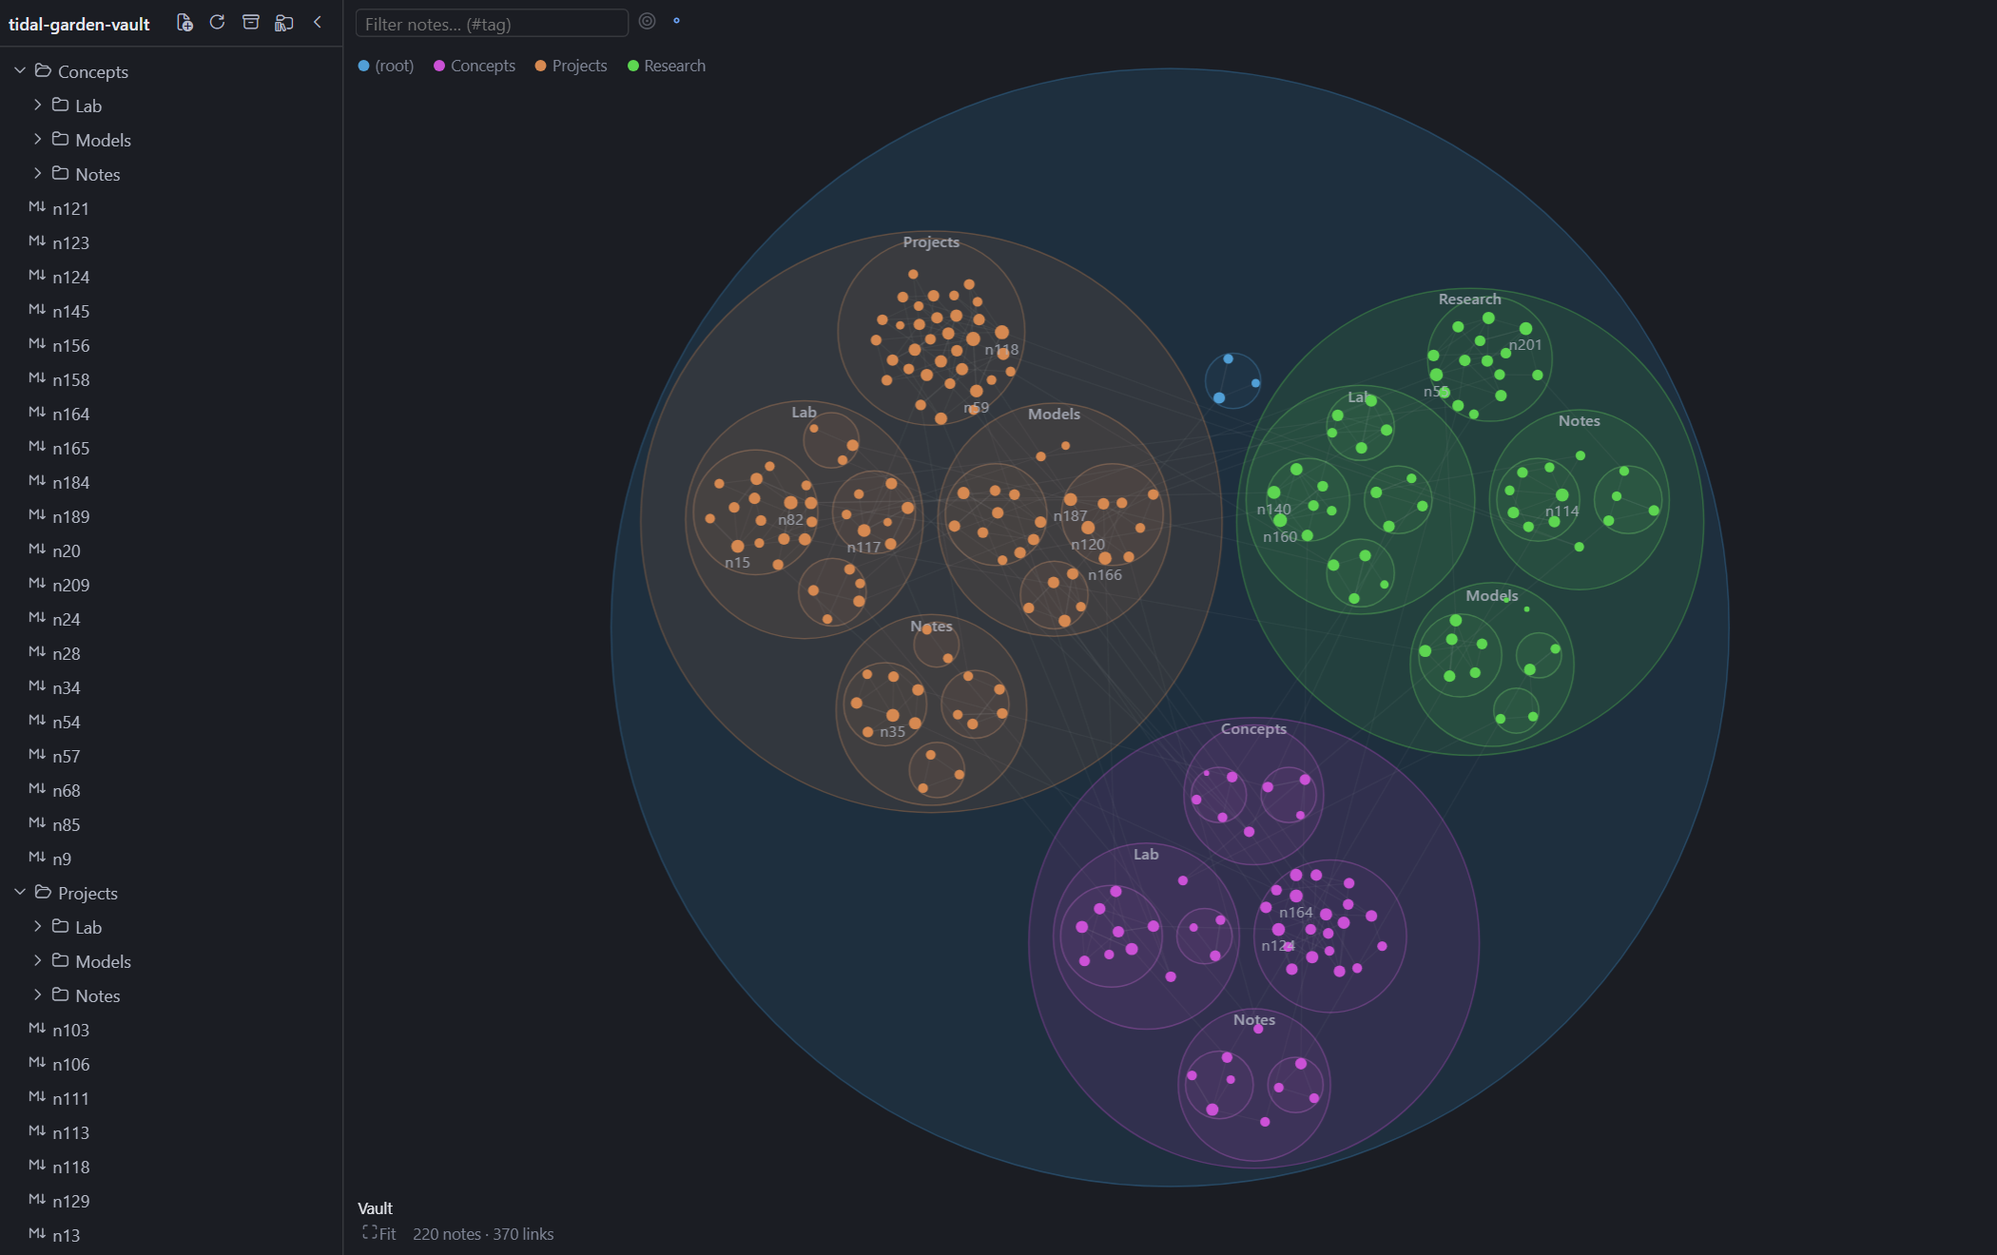
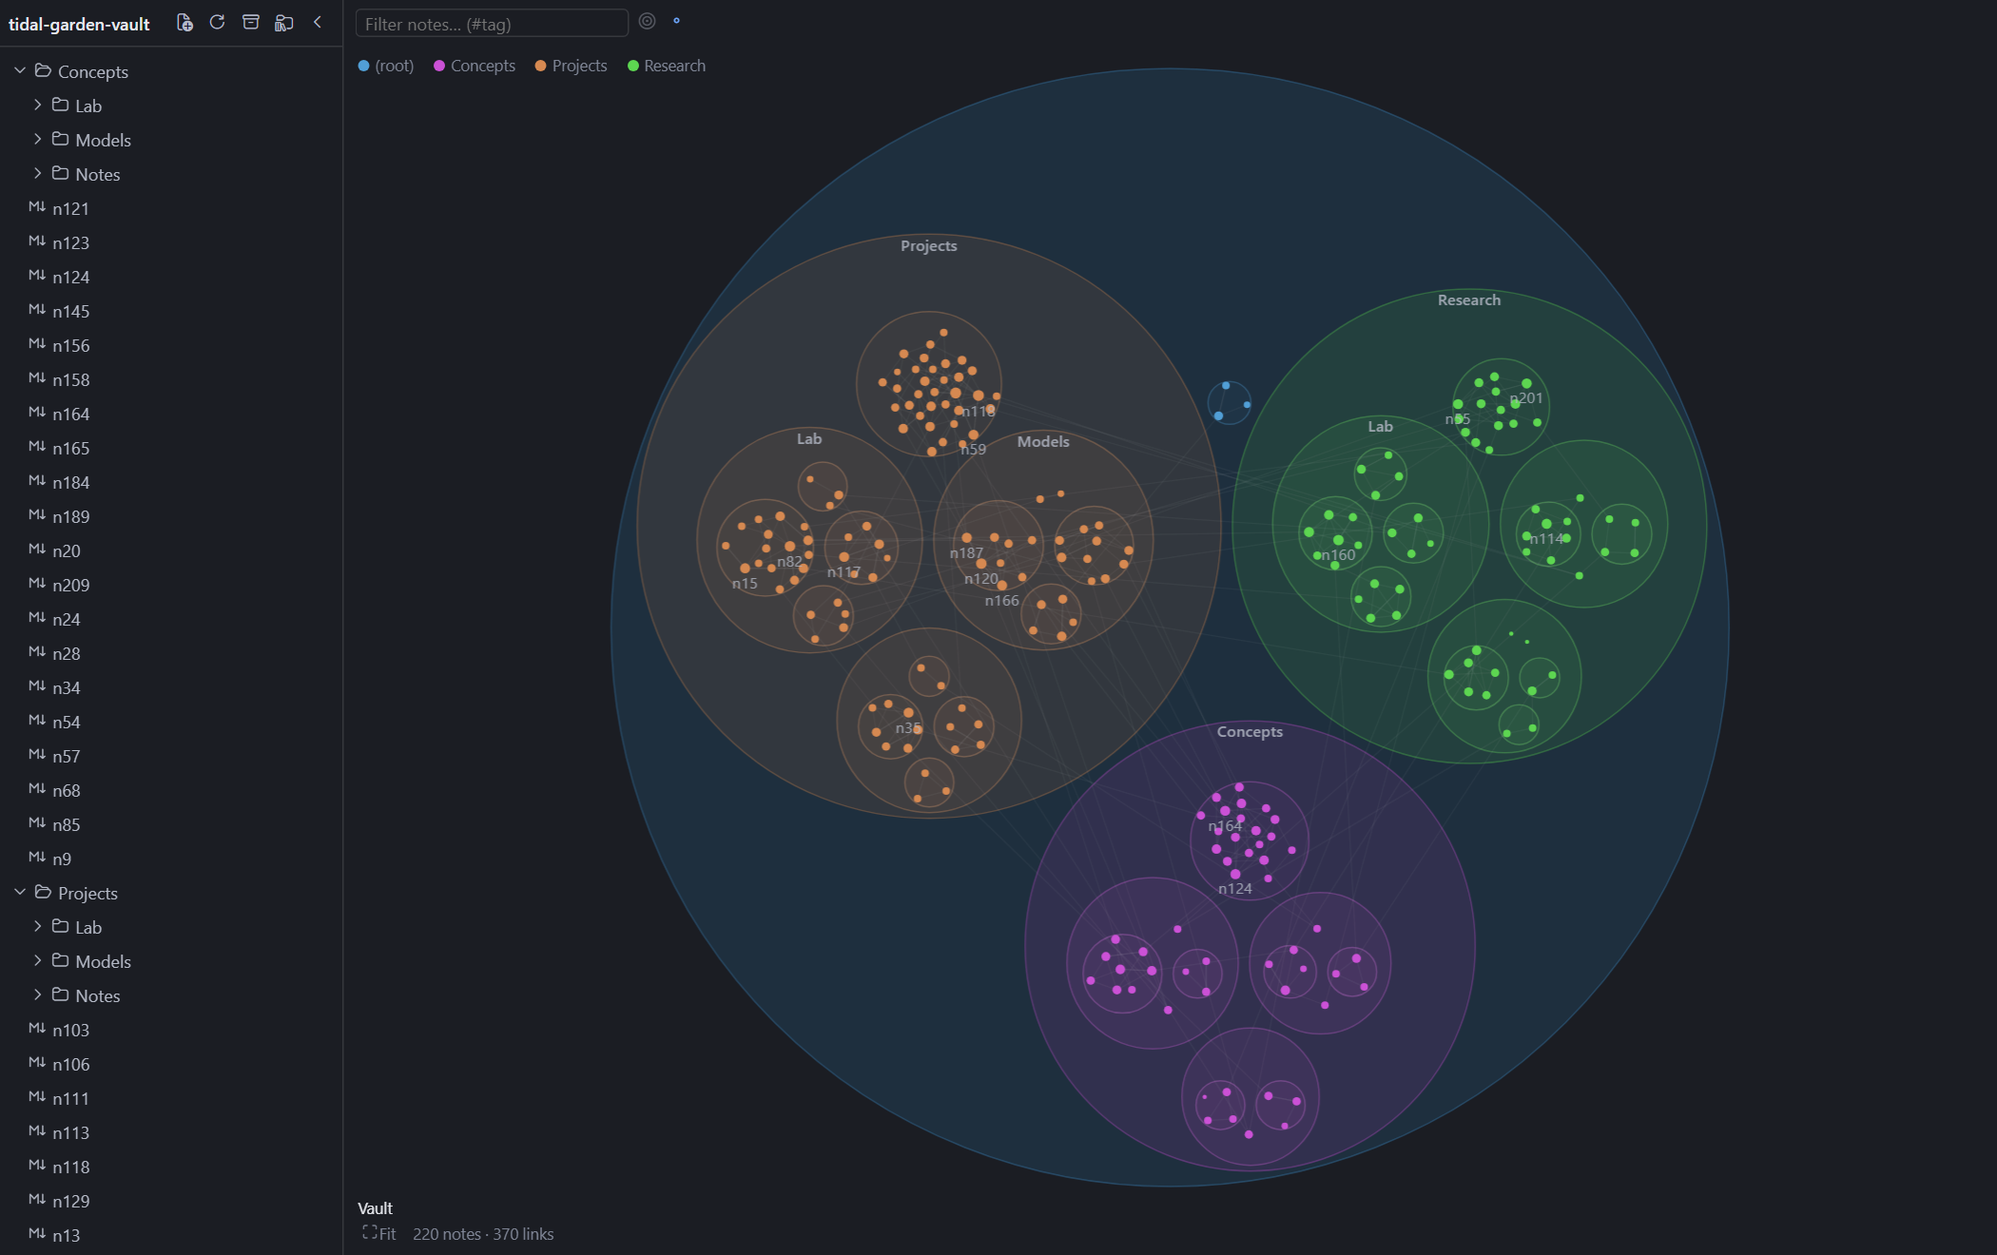
fix: reserve a label band in each region so labels never overlap notes or child regions; labels draw only while they fit

diff --git a/src/regions.ts b/src/regions.ts
@@ -26,8 +26,10 @@ export interface Compartment extends Disc {
 /** One drawn folder region. A chain of folders with no notes and a single child is one region. */
 export interface Region extends Disc {
   children: string[]
-  /** The notes' disc; coincides with the region itself when the folder has no subfolders. */
+  /** The notes' disc; coincides with `content` when the folder has no subfolders. */
   compartment: Compartment | null
+  /** Disc holding everything inside the region (children and notes); the crescent between it and the region is the label band. */
+  content: Disc
   depth: number
   /** The chain of folders this region stands for, outermost first; the last one is `id`. */
   dirs: string[]
@@ -60,6 +62,12 @@ const DENSITY = 0.4
 const BUCKET_RATIO = 1.5
 /** Gap kept between siblings (twice this) and between a child and its parent's edge. */
 const REGION_PAD = 8
+/**
+ * Label band: the region disc is its content disc grown by this fraction of the content radius, with the content
+ * pushed down to touch the bottom edge, leaving a crescent at the top (thickness twice this at the centre) that
+ * only the region's label may occupy. Tuned by eye.
+ */
+const LABEL_BAND = 0.14
 const BUCKET_ORIGIN = Math.PI * (radiusOf({ degree: 0 }) + COLLIDE_PAD) ** 2
 
 export const EMPTY_GEOMETRY: Geometry = {
@@ -107,6 +115,7 @@ export const geometrySignature = (radii: ReadonlyMap<string, number>): string =>
 interface Packed {
   children: { dx: number; dy: number; packed: Packed }[]
   compartment: { dx: number; dy: number; r: number } | null
+  content: { dx: number; dy: number; r: number }
   dirs: string[]
   r: number
 }
@@ -159,9 +168,19 @@ export function buildGeometry(radii: ReadonlyMap<string, number>): Geometry {
 
       // A folder with notes and nothing else is its compartment; a folder with one child and no notes
       // is that child (a chain).
-      return only!.packed
-        ? { ...only!.packed, dirs: [dir, ...only!.packed.dirs] }
-        : { children: [], compartment: { dx: 0, dy: 0, r: own! }, dirs: [dir], r: own! }
+      if (only!.packed) {
+        return { ...only!.packed, dirs: [dir, ...only!.packed.dirs] }
+      }
+
+      const band = dir === '' ? 0 : LABEL_BAND * own!
+
+      return {
+        children: [],
+        compartment: { dx: 0, dy: band, r: own! },
+        content: { dx: 0, dy: band, r: own! },
+        dirs: [dir],
+        r: own! + band
+      }
     }
 
     // Largest first so the big discs sit at the centre; the key makes the order total.
@@ -172,11 +191,19 @@ export function buildGeometry(radii: ReadonlyMap<string, number>): Geometry {
     packSiblings(circles)
 
     const enclosure = packEnclose(circles)
-    const result: Packed = { children: [], compartment: null, dirs: [dir], r: enclosure.r }
+    const band = dir === '' ? 0 : LABEL_BAND * enclosure.r
+
+    const result: Packed = {
+      children: [],
+      compartment: null,
+      content: { dx: 0, dy: band, r: enclosure.r },
+      dirs: [dir],
+      r: enclosure.r + band
+    }
 
     items.forEach((item, index) => {
       const dx = circles[index]!.x - enclosure.x
-      const dy = circles[index]!.y - enclosure.y
+      const dy = circles[index]!.y - enclosure.y + band
 
       if (item.packed) {
         result.children.push({ dx, dy, packed: item.packed })
@@ -199,6 +226,7 @@ export function buildGeometry(radii: ReadonlyMap<string, number>): Geometry {
     const region: Region = {
       children: [],
       compartment: null,
+      content: { r: packed.content.r, x: x + packed.content.dx, y: y + packed.content.dy },
       depth,
       dirs: packed.dirs,
       id,

diff --git a/desktop/plugin.js b/desktop/plugin.js
@@ -3097,6 +3097,7 @@ var COLLIDE_PAD = 4;
 var DENSITY = 0.4;
 var BUCKET_RATIO = 1.5;
 var REGION_PAD = 8;
+var LABEL_BAND = 0.14;
 var BUCKET_ORIGIN = Math.PI * (radiusOf({ degree: 0 }) + COLLIDE_PAD) ** 2;
 var EMPTY_GEOMETRY = {
   byDir: /* @__PURE__ */ new Map(),
@@ -3156,16 +3157,33 @@ function buildGeometry(radii) {
     ];
     if (items.length === 1) {
       const [only] = items;
-      return only.packed ? { ...only.packed, dirs: [dir, ...only.packed.dirs] } : { children: [], compartment: { dx: 0, dy: 0, r: own }, dirs: [dir], r: own };
+      if (only.packed) {
+        return { ...only.packed, dirs: [dir, ...only.packed.dirs] };
+      }
+      const band2 = dir === "" ? 0 : LABEL_BAND * own;
+      return {
+        children: [],
+        compartment: { dx: 0, dy: band2, r: own },
+        content: { dx: 0, dy: band2, r: own },
+        dirs: [dir],
+        r: own + band2
+      };
     }
     items.sort((a3, b) => b.r - a3.r || (a3.key < b.key ? -1 : a3.key > b.key ? 1 : 0));
     const circles = items.map((item) => ({ r: item.r + REGION_PAD, x: 0, y: 0 }));
     siblings_default(circles);
     const enclosure = enclose_default(circles);
-    const result = { children: [], compartment: null, dirs: [dir], r: enclosure.r };
+    const band = dir === "" ? 0 : LABEL_BAND * enclosure.r;
+    const result = {
+      children: [],
+      compartment: null,
+      content: { dx: 0, dy: band, r: enclosure.r },
+      dirs: [dir],
+      r: enclosure.r + band
+    };
     items.forEach((item, index2) => {
       const dx = circles[index2].x - enclosure.x;
-      const dy = circles[index2].y - enclosure.y;
+      const dy = circles[index2].y - enclosure.y + band;
       if (item.packed) {
         result.children.push({ dx, dy, packed: item.packed });
       } else {
@@ -3183,6 +3201,7 @@ function buildGeometry(radii) {
     const region = {
       children: [],
       compartment: null,
+      content: { r: packed.content.r, x: x3 + packed.content.dx, y: y3 + packed.content.dy },
       depth,
       dirs: packed.dirs,
       id,
@@ -3351,6 +3370,7 @@ var LABEL_MIN_PX = 40;
 var CURRENT_FRACTION = 0.25;
 var FIT_CAP = 1.8;
 var hsl = (hue, lightness) => `hsl(${hue} 62% ${lightness}%)`;
+var rectClearOf = (box, disc, margin) => Math.hypot(Math.max(box[0], Math.min(disc.x, box[2])) - disc.x, Math.max(box[1], Math.min(disc.y, box[3])) - disc.y) >= disc.r + margin;
 function GraphView(props) {
   const { cluster, graph, hiddenFolders, labels, legendFolders, onOpen, onToggleFolder, selected } = props;
   const nested = cluster === "nested";
@@ -3467,13 +3487,13 @@ function GraphView(props) {
         const half = width / 2 + 3 / k;
         const room = region.r > half ? region.r - Math.sqrt(region.r * region.r - half * half) : region.r;
         const dy = Math.max(3 / k, room);
-        if (room < region.r || forced) {
-          const box = [
-            region.x - width / 2,
-            region.y - region.r + dy,
-            region.x + width / 2,
-            region.y - region.r + dy + fontPx * 1.15
-          ];
+        const box = [
+          region.x - width / 2,
+          region.y - region.r + dy,
+          region.x + width / 2,
+          region.y - region.r + dy + fontPx * 1.15
+        ];
+        if (forced || room < region.r && rectClearOf(box, region.content, 2 / k)) {
           if (forced || !labelPlaced.some((p) => box[0] < p[2] && box[2] > p[0] && box[1] < p[3] && box[3] > p[1])) {
             labelPlaced.push(box);
             labelBoxesRef.current.push({ box: [box[0] - 2 / k, box[1] - 2 / k, box[2] + 2 / k, box[3] + 2 / k], id: region.id });

diff --git a/src/graph-view.tsx b/src/graph-view.tsx
@@ -47,6 +47,10 @@ const FIT_CAP = 1.8
 
 const hsl = (hue: number, lightness: number): string => `hsl(${hue} 62% ${lightness}%)`
 
+/** Whether the box lies wholly outside the disc grown by `margin`. */
+const rectClearOf = (box: readonly [number, number, number, number], disc: { r: number; x: number; y: number }, margin: number): boolean =>
+  Math.hypot(Math.max(box[0], Math.min(disc.x, box[2])) - disc.x, Math.max(box[1], Math.min(disc.y, box[3])) - disc.y) >= disc.r + margin
+
 export interface GraphViewProps {
   cluster: ClusterMode
   /** The whole vault's graph. Nested region geometry comes from it, so filters never repack the map. Defaults to `graph`. */
@@ -245,14 +249,16 @@ export function GraphView(props: GraphViewProps) {
         const room = region.r > half ? region.r - Math.sqrt(region.r * region.r - half * half) : region.r
         const dy = Math.max(3 / k, room)
 
-        if (room < region.r || forced) {
-          const box: [number, number, number, number] = [
-            region.x - width / 2,
-            region.y - region.r + dy,
-            region.x + width / 2,
-            region.y - region.r + dy + fontPx * 1.15
-          ]
+        const box: [number, number, number, number] = [
+          region.x - width / 2,
+          region.y - region.r + dy,
+          region.x + width / 2,
+          region.y - region.r + dy + fontPx * 1.15
+        ]
 
+        // The label belongs in the crescent above the content disc, where no note or child region can be.
+        // It is drawn unforced only while it fits there at this zoom, so it never sits on a note.
+        if (forced || (room < region.r && rectClearOf(box, region.content, 2 / k))) {
           if (forced || !labelPlaced.some(p => box[0] < p[2] && box[2] > p[0] && box[1] < p[3] && box[3] > p[1])) {
             labelPlaced.push(box)
             labelBoxesRef.current.push({ box: [box[0] - 2 / k, box[1] - 2 / k, box[2] + 2 / k, box[3] + 2 / k], id: region.id })

diff --git a/src/graph-view.test.tsx b/src/graph-view.test.tsx
@@ -44,14 +44,27 @@ beforeEach(() => {
       }) as DOMRect
   )
   HTMLElement.prototype.setPointerCapture = () => undefined
+  // Text is measured in the transformed (world) space at the font size the view set, as a real canvas does.
+  let fontPx = 11
+
   vi.spyOn(HTMLCanvasElement.prototype, 'getContext').mockReturnValue(
     new Proxy(
       {},
       {
         get: (_target, name: string) =>
-          name === 'measureText' ? () => ({ width: 40 }) : (...args: unknown[]) => void calls.push([name, args]),
+          name === 'measureText'
+            ? (text: string) => ({ width: fontPx * 0.6 * text.length })
+            : (...args: unknown[]) => void calls.push([name, args]),
         // Property writes are recorded too, so a region disc (arc, then style writes, then fill) differs from a note disc (arc, fill).
-        set: (_target, name: string, value: unknown) => (calls.push(['set', [name, value]]), true)
+        set: (_target, name: string, value: unknown) => {
+          if (name === 'font') {
+            fontPx = Number.parseFloat(/(\d+(?:\.\d+)?(?:e-?\d+)?)px/.exec(String(value))?.[1] ?? '11')
+          }
+
+          calls.push(['set', [name, value]])
+
+          return true
+        }
       }
     ) as unknown as CanvasRenderingContext2D
   )
@@ -434,8 +447,8 @@ describe('GraphView nested folder regions', () => {
       expect(view.x).toBeCloseTo(400, 3)
       expect(view.y).toBeCloseTo(300, 3)
       expect(view.r).toBeCloseTo(252, 3)
-      // Deeper than the legacy 1.8 Fit cap and above the legacy zoom ceiling of 6: the shared limits allow it.
-      expect(view.k).toBeGreaterThan(6)
+      // Far past the 1.8 cap of the global Fit action (the ceiling's widening past 6 is covered in camera.test.ts).
+      expect(view.k).toBeGreaterThan(5)
     })
 
     it('shows the path to the camera, and a step of it (or Escape) frames the ancestor', async () => {

diff --git a/src/regions.test.ts b/src/regions.test.ts
@@ -14,8 +14,19 @@ const gap = (a: { r: number; x: number; y: number }, b: { r: number; x: number; 
 function expectSound(geometry: Geometry) {
   for (const region of geometry.regions.values()) {
     const kids = region.children.map(id => geometry.regions.get(id)!)
+    const inContent = (d: { r: number; x: number; y: number }) =>
+      expect(Math.hypot(d.x - region.content.x, d.y - region.content.y) + d.r).toBeLessThanOrEqual(region.content.r + EPS)
+
+    // The label band: the content sits inside the region and touches its bottom edge, so the crescent above it is free.
+    expect(Math.hypot(region.content.x - region.x, region.content.y - region.y) + region.content.r).toBeLessThanOrEqual(region.r + EPS)
+
+    if (region.id !== '') {
+      expect(region.content.y - region.y + region.content.r).toBeCloseTo(region.r, 6)
+      expect(region.content.r).toBeLessThan(region.r)
+    }
 
     for (const kid of kids) {
+      inContent(kid)
       expect(Math.hypot(kid.x - region.x, kid.y - region.y) + kid.r).toBeLessThanOrEqual(region.r + EPS)
       expect(kid.parent).toBe(region.id)
     }
@@ -23,6 +34,7 @@ function expectSound(geometry: Geometry) {
     const own = region.compartment
 
     if (own) {
+      inContent(own)
       expect(Math.hypot(own.x - region.x, own.y - region.y) + own.r).toBeLessThanOrEqual(region.r + EPS)
     }
 

diff --git a/docs/nested-folder-regions.md b/docs/nested-folder-regions.md
@@ -151,10 +151,11 @@ Degradation, if measurement shows a cliff: draw regions only on settle while the
 Resolved by the implementation (the design above stands unless noted):
 
 - **Packing.** `d3-hierarchy` (`packSiblings` front-chain, `packEnclose`; ISC, 3.1.2) is the one added dependency: it is the established deterministic implementation of the algorithm named in the design. Children are sorted by radius then path before packing; each child is inflated by a fixed padding (8) for the packing, so siblings keep a gap of at least twice that and children keep that margin from the parent edge. A folder whose only child is its own compartment is that compartment; a folder with no notes and one child is that child (a chain), without extra padding.
+- **Label band.** A region disc is its content disc (the packing's enclosure, or the compartment for a leaf) grown by 14% of the content radius, with the content pushed down to touch the bottom edge. The crescent above it is reserved for the region's own label, so no note or child region can lie under a label. An unforced label is drawn only while its box (at screen-constant size) lies wholly outside the content disc at the current zoom, so a label that does not fit at a given zoom is hidden, not overdrawn; the hovered or framed region always labels. The root region has no band. The geometry tests assert that content lies inside the region, touches its bottom edge, and holds all children and the compartment.
 - **Geometry identity.** A compartment's radius is its direct notes' summed collision footprint (π(r+4)²) rounded up into geometric buckets (area ratio 1.5), over a packing density of 0.4, and at least the largest note's collision radius. `graph-view` rebuilds geometry only when the sorted (folder, radius) list changes; it is computed from the `fullGraph` prop, not the displayed graph.
 - **Camera.** Zoom limits (`zoomLimits`) are the legacy 0.1–6 widened by the whole-map fit (floor) and the smallest-compartment fit (ceiling), recomputed on every use so they follow the viewport; the 1.8 cap applies only to the global Fit and the whole-map crumb. Framing animates along the van Wijk–Nuij smooth zoom path (d3-zoom's `interpolateZoom`), which zooms out and back in over long jumps. The "current folder" is the framed region, and after a manual pan or zoom the deepest region containing the viewport centre whose on-screen radius is at least a quarter of the viewport's short side; Escape frames its parent. A viewport resize while still framed re-frames the same region. In nested mode the camera is kept through filters, the local graph and repacks, and refit only on first display or a mode switch.
 - **Path display.** One HTML breadcrumb (Vault / A / B / C). It shows the hovered region's ancestry (a hovered note shows its folder's) and otherwise the camera's; steps are buttons that frame that ancestor. Hover emphasis: the chain brightens, other regions recede.
-- **Semantic zoom.** A region is drawn and hit-testable once its on-screen radius is at least 14 px, and labelled at 40 px or more if the label fits the chord at the top of the disc; traversal skips subtrees that miss the viewport or fall below the band; a disc that covers the whole viewport is not drawn. No region is too small for every reachable zoom (the ceiling is the smallest compartment's fit), so presentation simplification is only chain merging.
+- **Semantic zoom.** A region is drawn and hit-testable once its on-screen radius is at least 14 px, and labelled at 40 px or more only while the label fits in the label band (below); traversal skips subtrees that miss the viewport or fall below the band; a disc that covers the whole viewport is not drawn. No region is too small for every reachable zoom (the ceiling is the smallest compartment's fit), so presentation simplification is only chain merging.
 - **Containment.** `containNode` clamps the position (and any `fx/fy` pin target) to the compartment less the note radius and removes outward normal velocity. It runs at build (seeding, restoring, remapping, radius change), in the `tick` handler and when pins change, and the drag target is clamped before it is written. Harnesses must call `step()` (`sim.tick()` dispatches no event); a test shows that bare `sim.tick()` violates containment on a cross-linked fixture.
 - **Persistence.** `VaultState.nestedPositions` stores `[folder, u, v]` (offset over radius) and survives repacks by mapping and then containing; a note whose stored folder differs from its current one is seeded fresh. `positions` gains `positionsMode`; positions with no recorded mode (saved before this change) are accepted by folder/none as they always were and never by nested, and positions of a different mode are replaced, not merged. Live positions carry over only within the same mode. Pins are a mode-independent set: a pin from another layout is re-applied at the note's seeded or restored position, then clamped like any `fx/fy`. Cold-start seeding inside a compartment is a deterministic sunflower spiral (no jitter, no randomness).
 - **Forces (nested only).** Boundary crowding was measured before choosing (`node scripts/bench.mjs`; 600 notes, depth 3, 300 settled steps; share of notes in the outer 5% of compartments with at least 8 notes). With the folder-mode forces (pull 0.07, repulsion range 340) 61% sat on the rim with internal links only, 69% with 10% cross-folder links and 83% with no links at all, so the pile-up exists without external links and comes from the repulsion/pull balance, not cross-folder tension. Lower compartment density alone helped little (density 0.15: 29% / 47% / 75%). Shortening the repulsion range to 60 and pulling at 0.25 gave 4% / 30% / 43% for internal-only / 70% cross-folder / no links. Cross-folder links add a separate tension, so nested mode weakens them to 0.1 (folder mode keeps 0.3), giving 3% / 24% / 58% / 43% for internal-only / 10% cross / 70% cross / no links. Link-aware sibling arrangement was not needed and remains deferred. The folder and none modes are unchanged.
